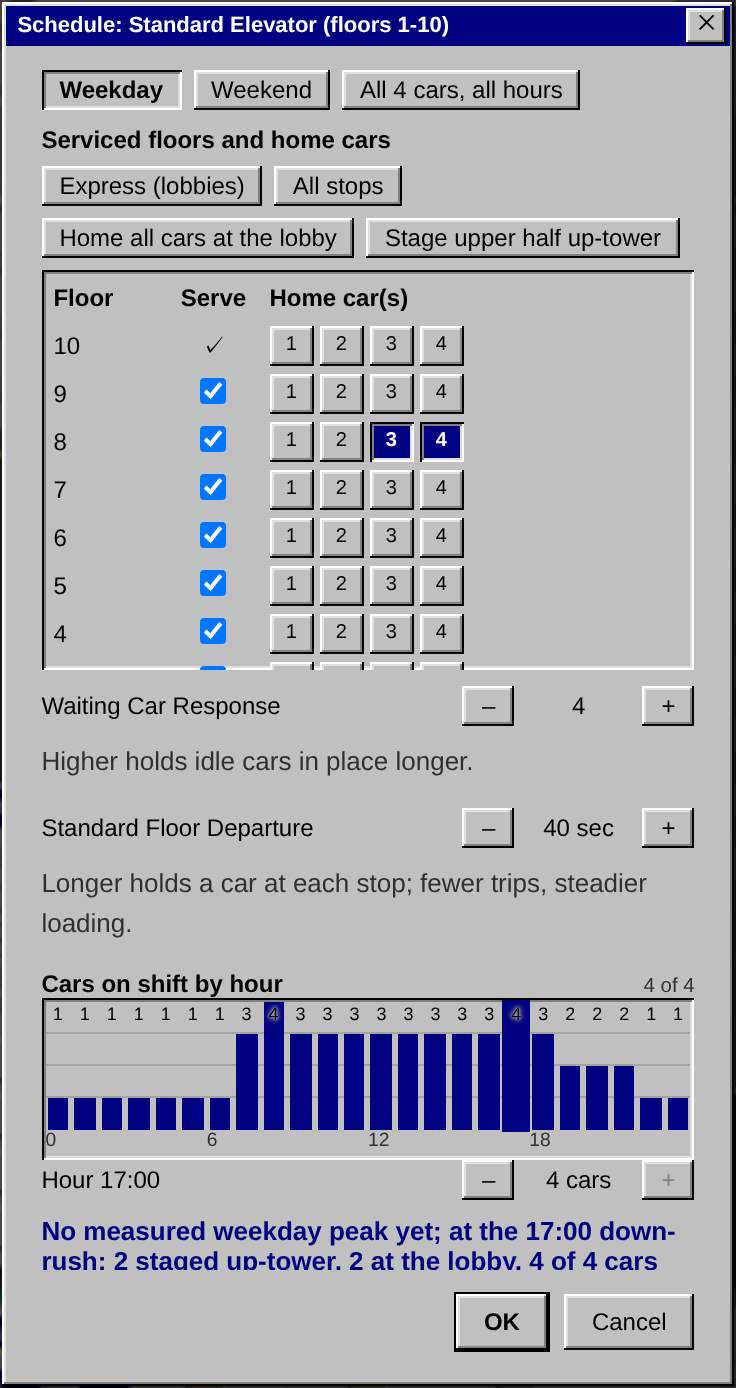
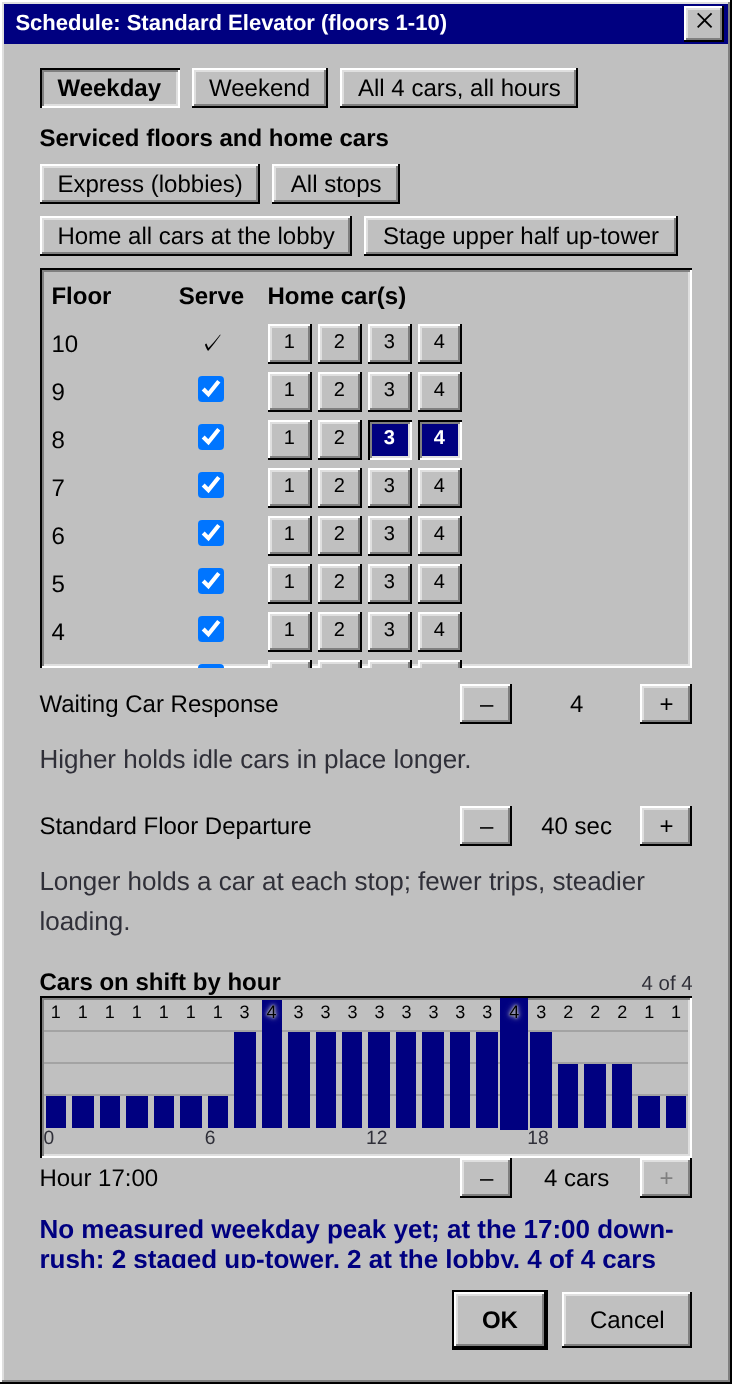
Crop window shots to the pixels the window fully covers
A dialog centered with margin: auto sits half a pixel down whenever the
leftover height is odd. The locator screenshot rounded its box outward, so
the shot's top row was half the dialog's edge and half the dimmed tower
behind it, and that tower is not the same from one render to the next.
The determinism check caught it about one run in three on the fire
Emergency window shot (02f-dropped-report-notice).

A crop shot now keeps only the device pixels its element covers
completely, so nothing painted behind an element can reach the shot.

Claude-Session: https://claude.ai/code/session_01Ms7trYRmqGgNU6gZBm9etD

diff --git a/src/tests/screenshotCropClip.ts b/src/tests/screenshotCropClip.ts
@@ -1,0 +1,42 @@
+/**
+ * The crop rectangle for a shot that shows one element (`shot.crop`).
+ *
+ * An element's box rarely starts on a whole pixel: a dialog centered with
+ * `margin: auto` sits half a pixel down whenever the leftover height is odd.
+ * A locator screenshot rounds that box outward, so its first and last rows
+ * and columns are a blend of the element's edge and whatever is painted
+ * behind it. For a dialog that is the dimmed, blurred tower, which is not
+ * the same from one run to the next, and the shot's bytes moved with it
+ * (02f-dropped-report-notice, one run in three under load).
+ *
+ * Rounding inward instead keeps only pixels the element covers
+ * completely, so a crop shot holds nothing but its element.
+ */
+export interface Box {
+  x: number;
+  y: number;
+  width: number;
+  height: number;
+}
+
+/** The largest rectangle of whole CSS pixels inside `box`. Whole CSS pixels
+ *  because a fractional clip is widened back out to whole CSS pixels when the
+ *  page is captured (an element screenshot does the same to its box), which
+ *  would bring the half-covered edge back; a whole CSS pixel is a whole device
+ *  pixel at every scale the gallery renders. Throws when the element is too
+ *  small to keep one pixel, since an empty crop would capture nothing and pass. */
+export function wholePixelClip(box: Box): Box {
+  // A box edge computed by layout can land a hair off a whole pixel through
+  // float error (12.000000001); treat those as whole so a box that already
+  // sits on whole pixels keeps its full size.
+  const snap = (v: number) => {
+    const r = Math.round(v);
+    return Math.abs(v - r) < 1e-6 ? r : v;
+  };
+  const left = Math.ceil(snap(box.x));
+  const top = Math.ceil(snap(box.y));
+  const right = Math.floor(snap(box.x + box.width));
+  const bottom = Math.floor(snap(box.y + box.height));
+  if (right <= left || bottom <= top) throw new Error(`crop box ${JSON.stringify(box)} covers no whole pixel`);
+  return { x: left, y: top, width: right - left, height: bottom - top };
+}

diff --git a/src/tests/screenshotCropClip.test.ts b/src/tests/screenshotCropClip.test.ts
@@ -1,0 +1,32 @@
+import { describe, expect, it } from "vitest";
+import { wholePixelClip } from "./screenshotCropClip.ts";
+
+/**
+ * A crop shot keeps only the pixels its element covers completely, so
+ * no row or column of the shot blends in what is painted behind the element
+ * (the dimmed tower behind a dialog, which differs between runs).
+ */
+describe("the screenshot crop rectangle", () => {
+  it("keeps a box that sits on whole pixels as it is", () => {
+    expect(wholePixelClip({ x: 10, y: 20, width: 300, height: 150 })).toEqual({ x: 10, y: 20, width: 300, height: 150 });
+  });
+
+  it("drops the half-covered row and column a dialog centered on a half pixel has", () => {
+    // A 154.5 px box starting 0.5 px down: its first row is half backdrop.
+    expect(wholePixelClip({ x: 120.5, y: 300.5, width: 558, height: 154.5 })).toEqual({ x: 121, y: 301, width: 557, height: 154 });
+  });
+
+  it("rounds a quarter-pixel edge inward to a whole CSS pixel", () => {
+    // On a 2x page a quarter CSS pixel is half a device pixel; the crop still
+    // keeps whole CSS pixels only, so the capture never widens it back.
+    expect(wholePixelClip({ x: 10.25, y: 10.75, width: 100, height: 50 })).toEqual({ x: 11, y: 11, width: 99, height: 49 });
+  });
+
+  it("treats float error at an edge as a whole pixel", () => {
+    expect(wholePixelClip({ x: 0.1 + 0.2 - 0.3, y: 12.000000001, width: 40, height: 30 })).toEqual({ x: 0, y: 12, width: 40, height: 30 });
+  });
+
+  it("refuses an element too small to keep a pixel", () => {
+    expect(() => wholePixelClip({ x: 1.2, y: 1.2, width: 0.6, height: 5 })).toThrow(/covers no whole pixel/);
+  });
+});

diff --git a/scripts/screenshots.ts b/scripts/screenshots.ts
@@ -50,7 +50,7 @@
 import { chromium, type Browser, type Page } from "playwright";
 import { spawn, type ChildProcess } from "node:child_process";
 import { join } from "node:path";
-import { DIRS, DESKTOP, EXECUTABLE, PORT, BASE, assertReady, isPhoneViewport, mapForShot, restoreMapAfterShot, type OutDir, type Scene, type Shot } from "./screenshot-env.ts";
+import { DIRS, DESKTOP, EXECUTABLE, PORT, BASE, assertReady, captureCrop, isPhoneViewport, mapForShot, restoreMapAfterShot, type OutDir, type Scene, type Shot } from "./screenshot-env.ts";
 import { pgAdoptTestClock, pgClearTransients, pgDismissSplash, pgFrame, pgMaskVersion, pgRefreshUi, pgSetClock, pgSetMapView, pgStep, pgStepNoDraw } from "./screenshot-builders.ts";
 import { armPhaseWatch, judgeAndPromote, markPhaseTarget, phaseCapturePath, stopPhaseWatch } from "./screenshot-phase-check.ts";
 import { SCENES } from "./screenshot-scenes.ts";
@@ -168,7 +168,7 @@ async function takeShot(page: Page, scene: Scene, shot: Shot): Promise<void> {
     // the onboarding pulse) at a fixed phase so DOM chrome is byte-stable too.
     const capturePath = shot.phaseWatch ? phaseCapturePath(path, outDir) : path;
     if (shot.crop) {
-      await page.locator(shot.crop).screenshot({ path: capturePath, animations: "disabled" });
+      await captureCrop(page, shot.crop, capturePath);
     } else {
       await page.screenshot({ path: capturePath, fullPage: !!shot.fullPage, animations: "disabled" });
     }

diff --git a/scripts/screenshot-crop.ts b/scripts/screenshot-crop.ts
@@ -1,0 +1,13 @@
+/** Captures a crop shot through `wholePixelClip` (src/tests/screenshotCropClip.ts). */
+import { type Page } from "playwright";
+import { wholePixelClip } from "../src/tests/screenshotCropClip.ts";
+
+/** Capture the element `selector` names, cropped to the whole pixels it
+ *  covers (see `wholePixelClip`). */
+export async function captureCrop(page: Page, selector: string, path: string): Promise<void> {
+  const el = page.locator(selector);
+  await el.scrollIntoViewIfNeeded();
+  const box = await el.boundingBox();
+  if (!box) throw new Error(`crop ${selector} is not on screen`);
+  await page.screenshot({ path, clip: wholePixelClip(box), animations: "disabled" });
+}

diff --git a/scripts/screenshot-env.ts b/scripts/screenshot-env.ts
@@ -11,6 +11,7 @@ import { type Page } from "playwright";
 import { fileURLToPath } from "node:url";
 import { dirname, resolve } from "node:path";
 import { mkdirSync, existsSync, readdirSync } from "node:fs";
+export { captureCrop } from "./screenshot-crop.ts";
 
 const __dirname = dirname(fileURLToPath(import.meta.url));
 export const ROOT = resolve(__dirname, "..");

diff --git a/.changes/claude-project-thread-x06iem-2.md b/.changes/claude-project-thread-x06iem-2.md
@@ -1,0 +1,4 @@
+---
+app: none
+crate: none
+---
